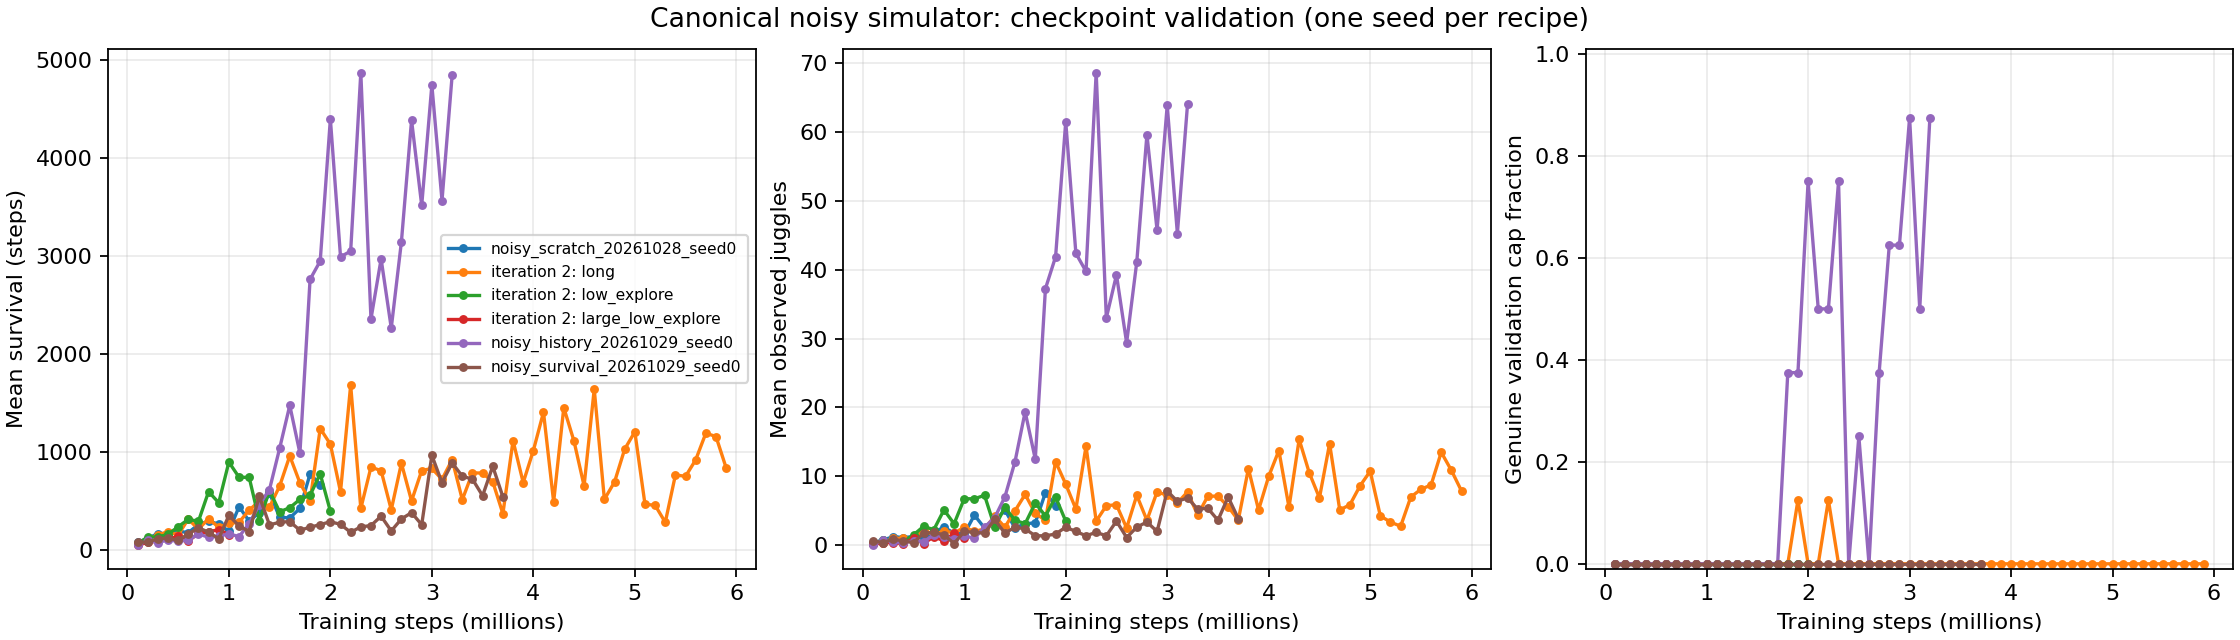
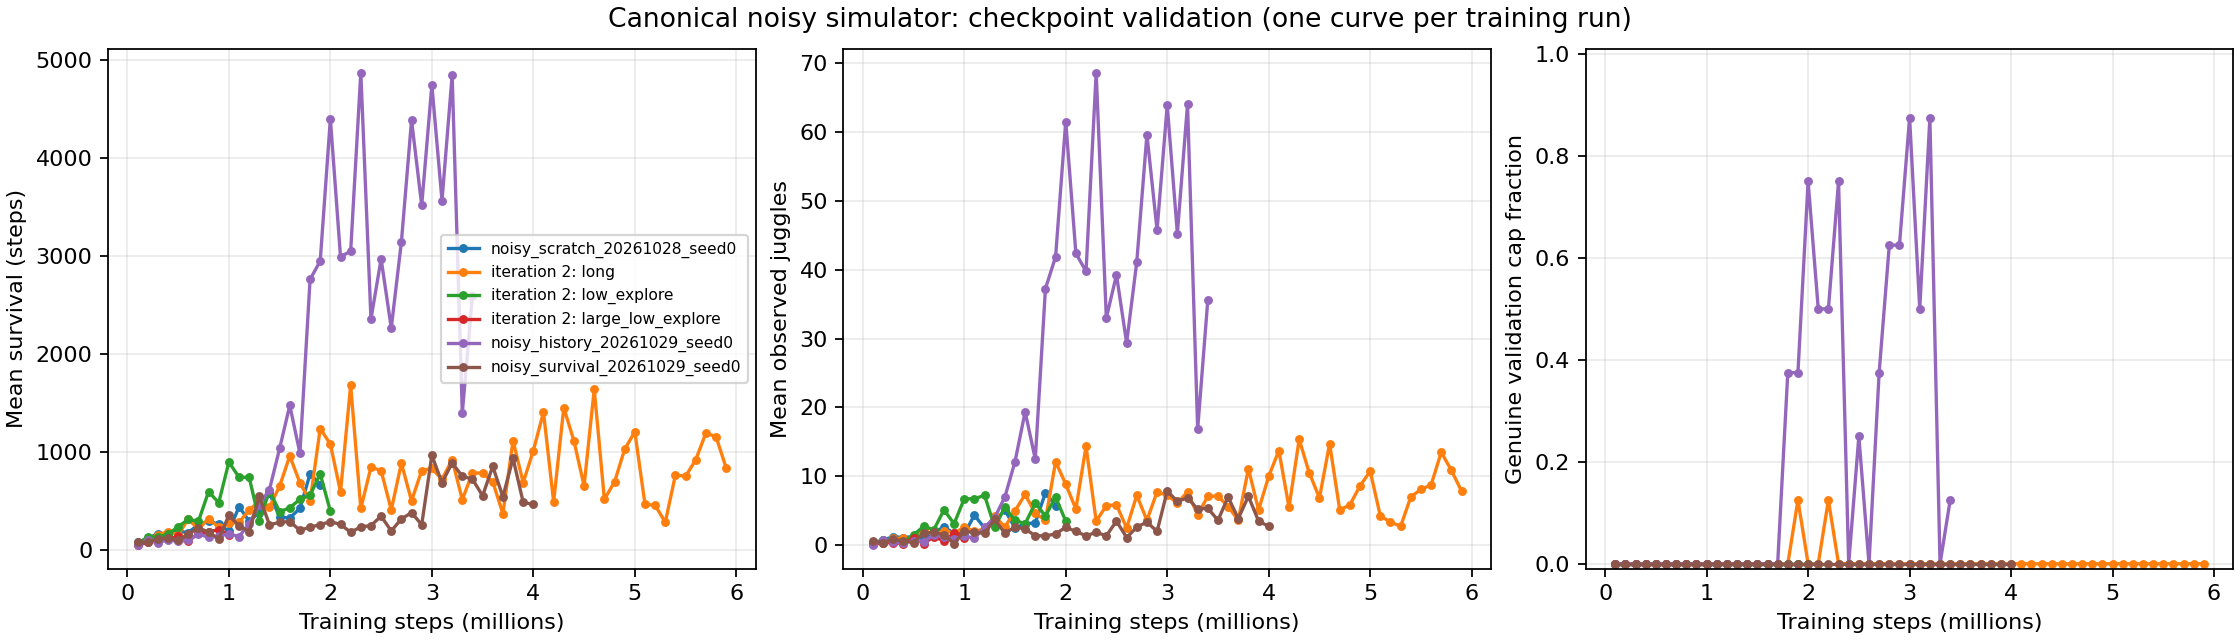
Complete baseline assessment and launch fresh history replication

diff --git a/scripts/analysis/juggle_progress.py b/scripts/analysis/juggle_progress.py
@@ -67,7 +67,7 @@ def write_report(roots, out):
     axes[2].set_ylim(-.01, 1.01)
     if rows:
         axes[0].legend(fontsize=7)
-    fig.suptitle("Canonical noisy simulator: checkpoint validation (one seed per recipe)")
+    fig.suptitle("Canonical noisy simulator: checkpoint validation (one curve per training run)")
     fig.savefig(figure, dpi=160)
     plt.close(fig)
     link = lambda path: os.path.relpath(path, out.parent)

diff --git a/docs/juggling-noisy-progress.md b/docs/juggling-noisy-progress.md
@@ -1,6 +1,6 @@
 # Noisy juggling progress
 
-Generated 2026-10-29T21:13:03.886941+00:00 from saved evaluations; no new rollouts.
+Generated 2026-10-29T21:21:31.201129+00:00 from saved evaluations; no new rollouts.
 
 Validation curves use repeatedly evaluated starts, not independent acceptance tests. Each point is an episode mean for one training seed. Check the CSV for episode counts, seeds and caps. Observed juggle counts use noisy camera positions and a direction-reversal filter. Contact timesteps are not distinct juggles. Cap fractions use the physical-trajectory heuristic when available, otherwise the legacy observed-count heuristic.
 
@@ -11,17 +11,20 @@ Validation curves use repeatedly evaluated starts, not independent acceptance te
 | Run | Runner status | Latest validation step | Mean survival | Mean juggles | Genuine cap fraction |
 |---|---|---:|---:|---:|---:|
 | noisy_scratch_20261028_seed0 | complete | 1,900,000 | 663.4 | 5.75 | 0.0% |
-| noisy_iteration2_20261029_long | training | 5,900,000 | 834.4 | 7.88 | 0.0% |
+| noisy_iteration2_20261029_long | complete | 5,900,000 | 834.4 | 7.88 | 0.0% |
 | noisy_iteration2_20261029_low_explore | interrupted | 2,000,000 | 392.0 | 3.50 | 0.0% |
 | noisy_iteration2_20261029_large_low_explore | interrupted | 1,000,000 | 152.6 | 1.00 | 0.0% |
-| noisy_history_20261029_seed0 | training | 3,200,000 | 4850.0 | 64.00 | 87.5% |
-| noisy_survival_20261029_seed0 | training | 3,700,000 | 539.5 | 3.88 | 0.0% |
+| noisy_history_20261029_seed0 | training | 3,400,000 | 2593.1 | 35.62 | 12.5% |
+| noisy_history_20261029_seed1 | training | No saved validation | — | — | — |
+| noisy_survival_20261029_seed0 | training | 4,000,000 | 461.0 | 2.75 | 0.0% |
 
 Separate-start evaluations (selection and benchmark phases labeled):
 
 - [noisy_scratch_20261028_seed0, final actor benchmark](../runs/td3/noisy_scratch_20261028_seed0/final_eval/results.json): 416.1 mean steps, 3.78 observed juggles, 0.0% cap completion; 32 starts from seed 200000, cap 10000.
 - [noisy_scratch_20261028_seed0, paired selected checkpoint](../runs/td3/noisy_scratch_20261028_seed0/selected_paired_eval/results.json): 816.9 mean steps, 7.41 observed juggles, 7.75 physical-trajectory juggles, 0.0% cap completion; 32 starts from seed 300000, cap 10000.
 - [noisy_scratch_20261028_seed0, paired final actor](../runs/td3/noisy_scratch_20261028_seed0/final_paired_eval/results.json): 415.3 mean steps, 3.28 observed juggles, 3.84 physical-trajectory juggles, 0.0% cap completion; 32 starts from seed 300000, cap 10000.
+- [noisy_iteration2_20261029_long, final actor benchmark](../runs/td3/noisy_iteration2_20261029_long/final_eval/results.json): 890.8 mean steps, 8.56 observed juggles, 9.53 physical-trajectory juggles, 0.0% cap completion; 32 starts from seed 200000, cap 10000.
+- [noisy_iteration2_20261029_long, validation-selected checkpoint benchmark](../runs/td3/noisy_iteration2_20261029_long/selected_eval/results.json): 1091.5 mean steps, 9.34 observed juggles, 9.88 physical-trajectory juggles, 0.0% cap completion; 32 starts from seed 400000, cap 10000.
 - [noisy_iteration2_20261029_long, first cap benchmark](../runs/td3/noisy_iteration2_20261029_long/first_cap_benchmark/results.json): 827.9 mean steps, 7.16 observed juggles, 7.53 physical-trajectory juggles, 0.0% cap completion; 32 starts from seed 300000, cap 10000.
 - [noisy_iteration2_20261029_long, milestone 2m benchmark](../runs/td3/noisy_iteration2_20261029_long/milestone_2m_benchmark/results.json): 1017.3 mean steps, 8.03 observed juggles, 9.44 physical-trajectory juggles, 0.0% cap completion; 32 starts from seed 300000, cap 10000.
 - [noisy_iteration2_20261029_long, through3m selected benchmark](../runs/td3/noisy_iteration2_20261029_long/through3m_selected_benchmark/results.json): 920.3 mean steps, 7.81 observed juggles, 8.78 physical-trajectory juggles, 0.0% cap completion; 32 starts from seed 300000, cap 10000.

diff --git a/notes/scratch/experiments/2026-10-29_21-21_baseline-complete-history-replication.md b/notes/scratch/experiments/2026-10-29_21-21_baseline-complete-history-replication.md
@@ -1,0 +1,28 @@
+# Baseline completes; scratch history replication starts
+
+Recorded 2026-10-29 16:21:30 -0500. The high-exploration feed-forward baseline completed its full 6M target without solving juggling. Its released allocation now runs a fresh second training seed of the stronger history recipe.
+
+## Completed baseline
+
+Root `runs/td3/noisy_iteration2_20261029_long`. Actual runner start 2026-10-29 12:16:46.679279 -0500; final completion 2026-10-29 16:17:37.672199 -0500 (durable status timestamps). The log reaches step5,999,999; exact training-loop finish time was not separately recorded. This run is **complete**, not interrupted. All checkpoints remain local.
+
+| Frozen actor | Starts | Cap | Mean steps | Median | Physical juggles | Caps |
+|---|---|---:|---:|---:|---:|---:|
+| Final 6M | 200000–200031 | 10,000 | 890.84375 | 915 | 9.53125 | 0/32 |
+| Validation-selected 2.2M | 400000–400031 | 10,000 | 1091.46875 | 718 | 9.875 | 0/32 |
+
+These are different seed sets, so their mean difference is not a paired policy improvement. Both sets have been reused across methods and are not untouched acceptance starts. The selected evaluator completed successfully and retained2.2M as the best saved validation checkpoint through the full budget (one genuine5k validation cap, mean1681.125). Increasing this baseline's training to6M did not produce a reliably sustained policy. [Portable per-start results](../../../docs/juggling-baseline-6m.csv); raw `final_eval/results.json`, `selected_eval/results.json` and statuses under the root.
+
+## Running scratch replication
+
+Config [history seed1](../../../configs/td3/sustained/noisy_history_scratch_seed1.yaml), root `runs/td3/noisy_history_20261029_seed1`. Actual start from status: 2026-10-29T21:18:15.860119+00:00 (UTC). Allocation112935, step112935.6, launcher1317877; selector1319154. Confirmed old baseline launcher and step112935.5 had ended before launch. No job was interrupted. Seed0 history and survival learners remain live.
+
+Only training seed0→1 and run name differ from the existing history config. Actor, critics and encoder start randomly; model_path null, history_warm_start_plain false, no residual or pretrained source. Reviewed simulator/config hashes match the preflight snapshot, the saved canonical environment passes, optional history sampling remains false and the full established±25% distribution remains intact. [Launch/provenance JSON](../../../docs/juggling-history-seed1-launch.json) records hashes, exact command and actual start. The process passed20k initial random-exploration steps and advanced beyond35k. No checkpoint-quality result yet; this is operational progress, not evidence that the architecture replicates successfully.
+
+```sh
+# Within an available existing allocation, same thread limits as the launch JSON:
+.venv/bin/python -u -m scripts.td3.juggle_noisy_scratch --root NEW_ROOT --args-file configs/td3/sustained/noisy_history_scratch_seed1.yaml
+.venv/bin/python -u -m scripts.td3.juggle_select --root NEW_ROOT --wait
+```
+
+The progress figure now says one curve per training run, allowing the second history seed. [Updated curves](../../../docs/juggling-noisy-progress.md). No new GIF for a mostly random35k policy; [E025](../../../docs/experiment_logbook.md#e025) contains the latest verified rollout clip from the earlier history candidate. No simulator implementation or sensing/control change and no new implementation tests; this is a seed-only configuration launch. Validation: baseline completion/results, actual Slurm/process checks, scratch/canonical/hash preflight, saved launch args, report generation, links/images, anchors/TOCs and whitespace.

diff --git a/docs/experiment_logbook.md b/docs/experiment_logbook.md
@@ -6,6 +6,7 @@ Entries and contents are ordered newest first; IDs remain permanent.
 
 ## Table of contents
 
+- [E027 — Baseline completes 6M; fresh history seed1 starts](#e027)
 - [E026 — History 3M improves shared survival; independent reliability remains low](#e026)
 - [E025 — All four long history episodes eventually fail](#e025)
 - [E024 — Fixed history 3M benchmark queued](#e024)
@@ -32,6 +33,16 @@ Entries and contents are ordered newest first; IDs remain permanent.
 - [E003 — Original-sensing fine-tuning regression](#e003)
 - [E002 — Clean-simulation iterations and failed transfer](#e002)
 - [E001 — Initial sustained-juggling studies](#e001)
+
+<a id="e027"></a>
+
+## E027 — 2026-10-29 16:21:30 -0500 — Baseline completes 6M; fresh history seed1 starts
+
+The baseline finishes its full 6M budget with no 10k benchmark caps, and its freed allocation starts a random-initialized history replication.
+
+**Completed baseline:** Final6M mean890.84375, median915,0/32 on seeds200000–200031; selected2.2M mean1091.46875, median718,0/32 on seeds400000–400031. Different reused seed sets; no paired-gain claim. [Per-start data](juggling-baseline-6m.csv), [timestamps and detailed record](../notes/scratch/experiments/2026-10-29_21-21_baseline-complete-history-replication.md). All artifacts preserved; no interruption.
+
+**Running replication:** Actual start 2026-10-29T21:18:15.860119+00:00 UTC, root `noisy_history_20261029_seed1`, Slurm112935.6, launcher1317877, selector1319154. Random actor/critics/encoder; only seed/run name changed. Passed20k random exploration and advanced beyond35k; no quality result yet. [Launch evidence](juggling-history-seed1-launch.json). Canonical simulator/config hashes and scratch guards pass. Seed0 history and survival continue. No new random-policy GIF; latest verified clips are in E025. [A028](agent_logbook.md#a028).
 
 <a id="e026"></a>
 

diff --git a/docs/agent_logbook.md b/docs/agent_logbook.md
@@ -6,6 +6,7 @@ Entries and contents are ordered newest first; IDs remain permanent.
 
 ## Table of contents
 
+- [A028 — Reuse completed baseline allocation for scratch replication](#a028)
 - [A027 — Complete fixed 3M evaluation and lock a new independent test](#a027)
 - [A026 — Uncensor the long episodes and publish their failure evidence](#a026)
 - [A025 — Attach a guarded fixed-milestone evaluator](#a025)
@@ -33,6 +34,14 @@ Entries and contents are ordered newest first; IDs remain permanent.
 - [A003 — Restore original sensing and matched comparison](#a003)
 - [A002 — Clean diagnostics and evaluation](#a002)
 - [A001 — Continuing-task implementation](#a001)
+
+<a id="a028"></a>
+
+## A028 — 2026-10-29 16:21:30 -0500 — Reuse completed baseline allocation for scratch replication
+
+Codex confirmed full baseline completion, preserved its final/selected results and launched the second history seed in the released GPU slot.
+
+**Evidence:** [E027](experiment_logbook.md#e027), [detailed record](../notes/scratch/experiments/2026-10-29_21-21_baseline-complete-history-replication.md), [hashed launch record](juggling-history-seed1-launch.json). Verified the old step ended, then launched112935.6 with fresh networks, unchanged canonical environment and full DR. Startup was observed on the same live handle until status appeared; no duplicate launch or restart. Attached selector1319154. Three learners are now live: history seed0, history seed1 and survival. Updated report wording for multiple seeds and checked documentation. Goal remains unsolved; replication efficacy has not been established.
 
 <a id="a027"></a>
 

diff --git a/notes/scratch/experiments/INDEX.md b/notes/scratch/experiments/INDEX.md
@@ -92,3 +92,5 @@ Format: `- YYYY-MM-DD HH:MM | topic | one-sentence outcome | [file](path)`
 - 2026-10-29 20:58 | History extended failures | All four 20k successes eventually fail; longest 57,811 steps; verified ending GIF and original-cohort uncensoring | [file](2026-10-29_20-58_history-extended-failures.md)
 
 - 2026-10-29 21:13 | Fixed history 3M tests | Shared mean6663,14/32 at10k; independent mean9117,5/32 at20k; candidate remains unaccepted | [file](2026-10-29_21-13_history-3m-independent.md)
+
+- 2026-10-29 21:21 | Baseline complete; history seed1 starts | Full6M baseline0/32caps; released allocation now trains history replication from random weights | [file](2026-10-29_21-21_baseline-complete-history-replication.md)
